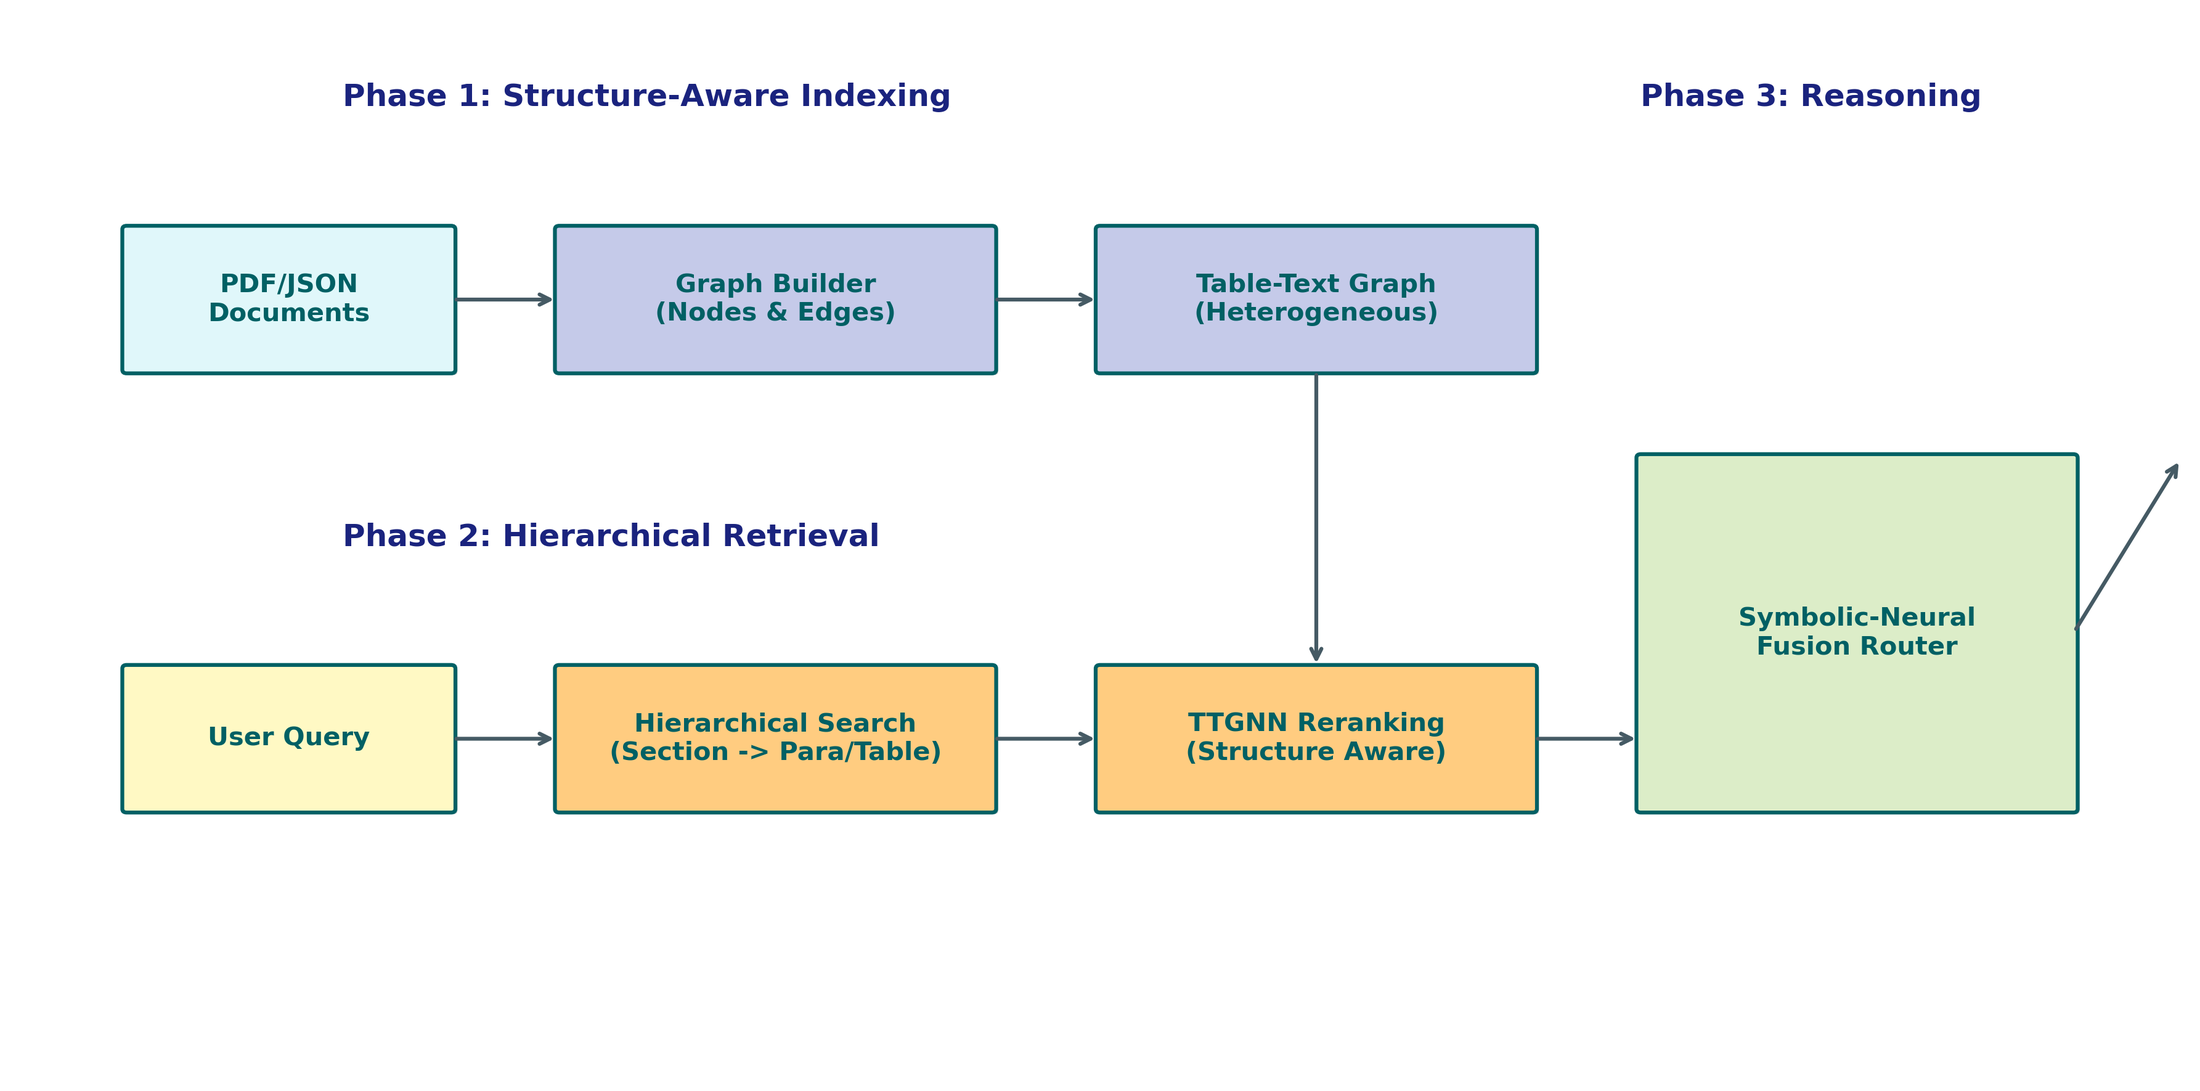
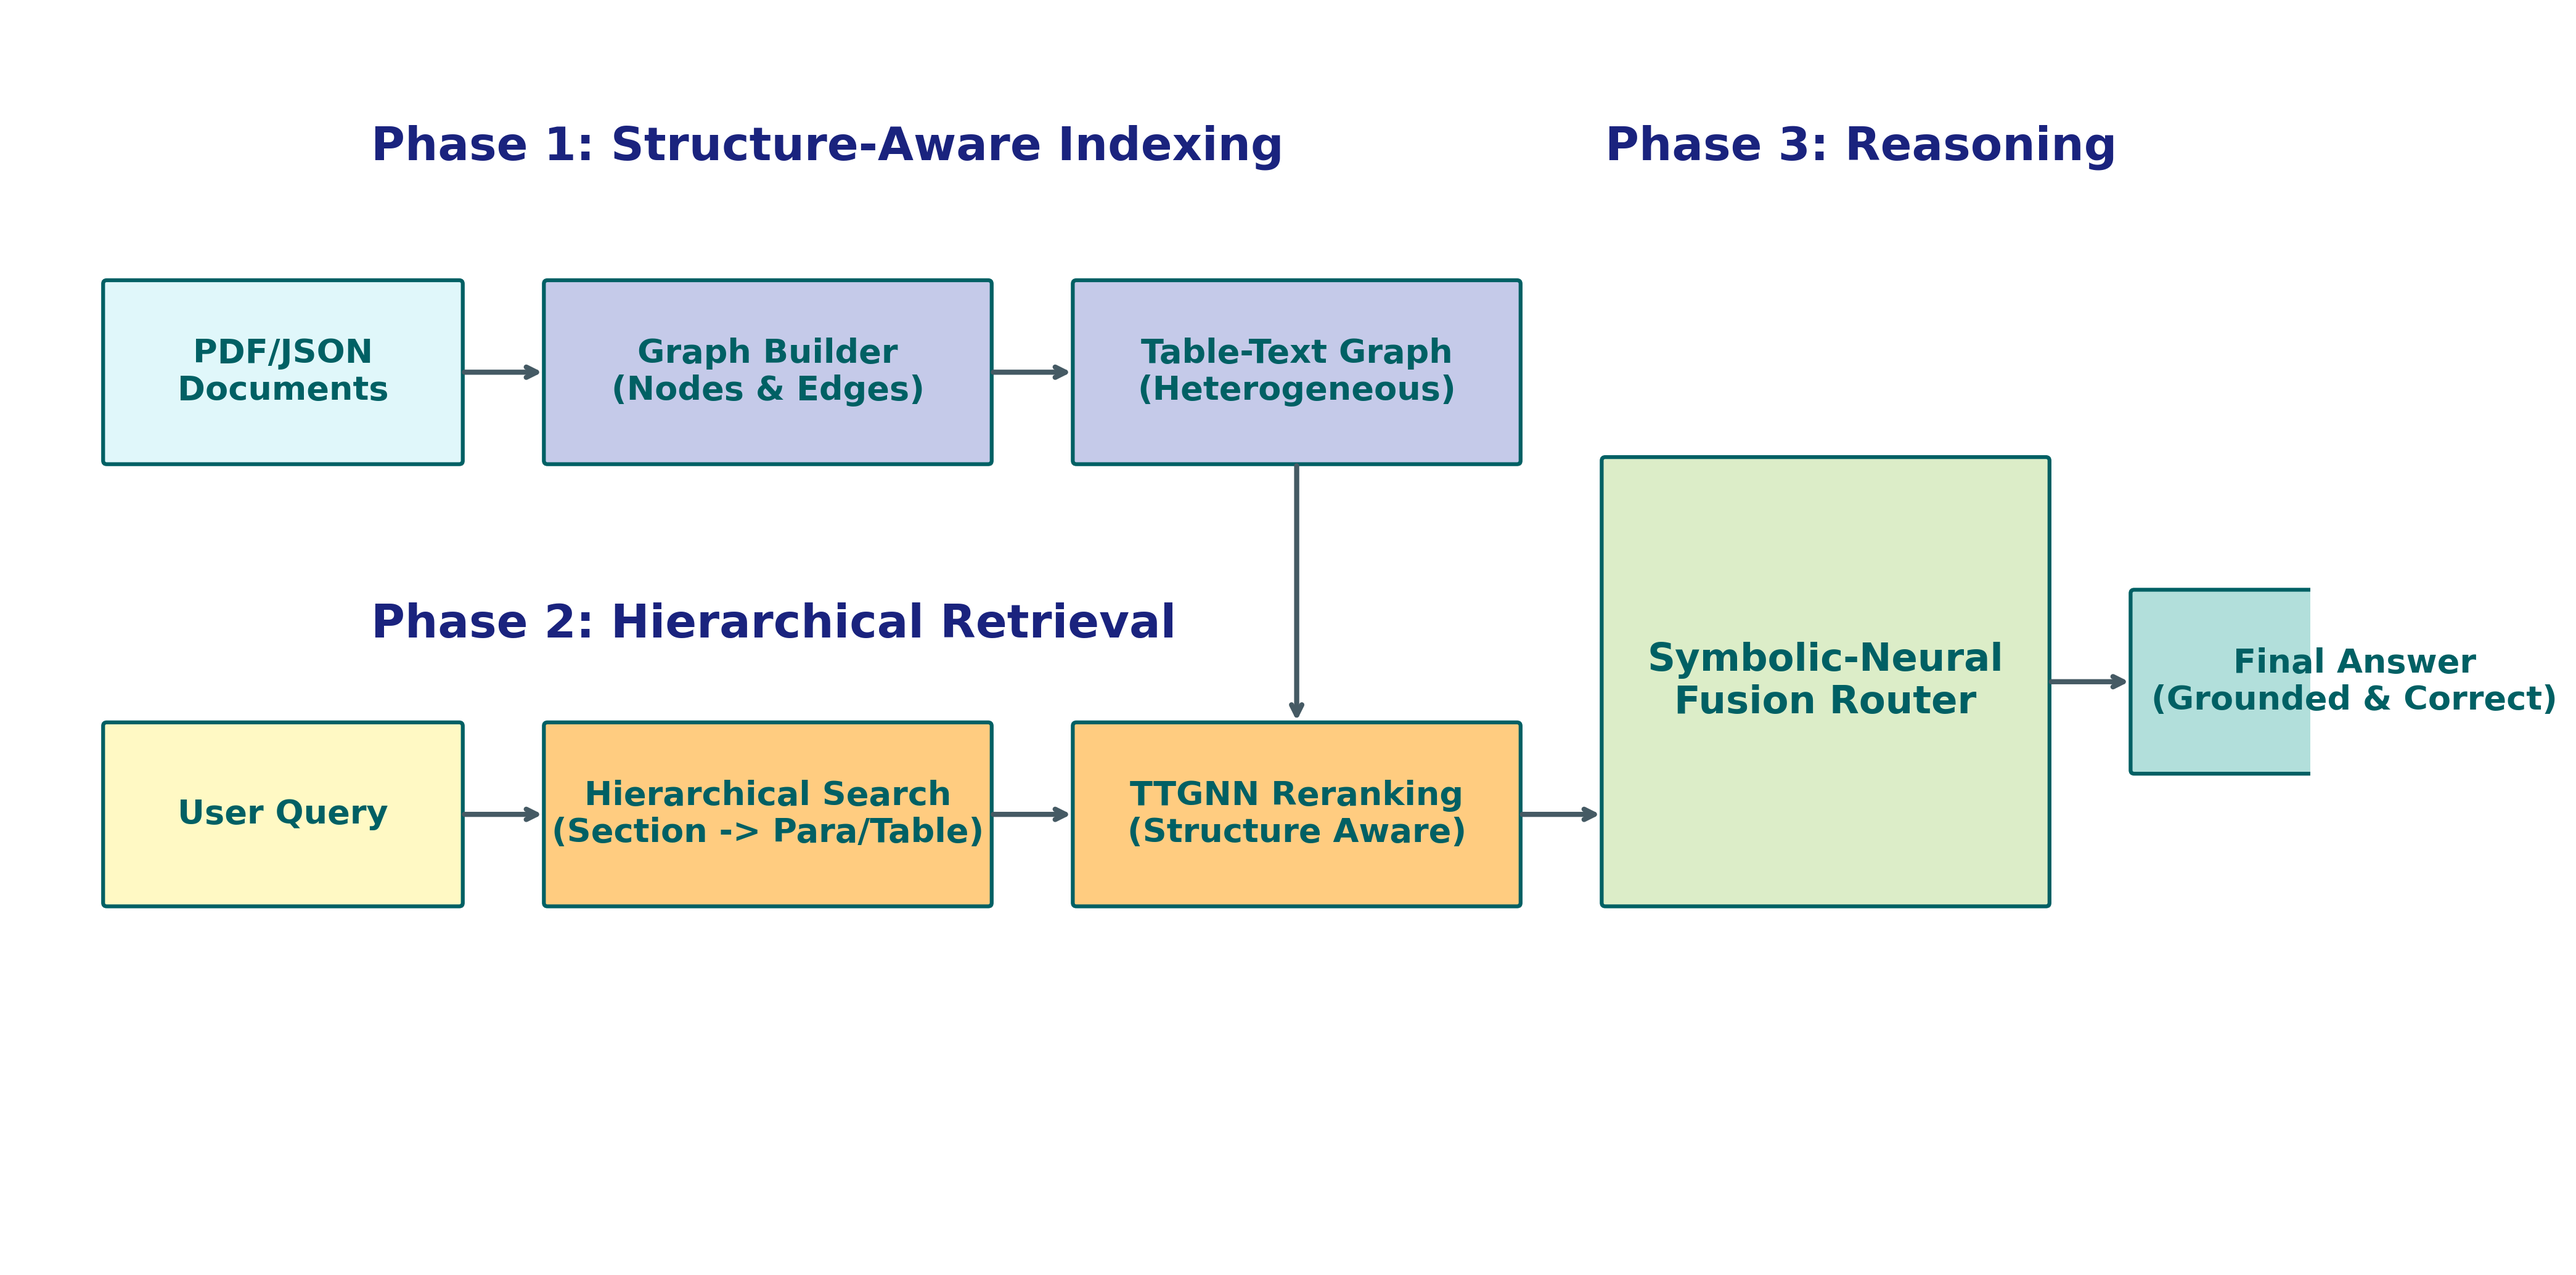
Finalize submission: Update Architecture Diagram fonts and add Response letter
- Increased fonts in Fig0_Architecture.png for readability

- Added Response_to_Reviewers.md

diff --git a/generate_architecture_diagram.py b/generate_architecture_diagram.py
@@ -1,7 +1,7 @@
 import matplotlib.pyplot as plt
 import matplotlib.patches as patches
 
-def draw_box(ax, x, y, width, height, text, color='#e0f7fa'):
+def draw_box(ax, x, y, width, height, text, color='#e0f7fa', fontsize=15):
     # Shadow
     shadow = patches.FancyBboxPatch((x+0.01, y-0.01), width, height, boxstyle="round,pad=0.02", 
                                    linewidth=0, facecolor='gray', alpha=0.3)
@@ -11,52 +11,55 @@ def draw_box(ax, x, y, width, height, text, color='#e0f7fa'):
                                 linewidth=1.5, edgecolor='#006064', facecolor=color)
     ax.add_patch(box)
     # Text
-    ax.text(x + width/2, y + height/2, text, ha='center', va='center', fontsize=10, fontweight='bold', color='#006064')
+    ax.text(x + width/2, y + height/2, text, ha='center', va='center', fontsize=fontsize, fontweight='bold', color='#006064')
     return x+width, y+height/2
 
 def draw_arrow(ax, x1, y1, x2, y2):
     ax.annotate("", xy=(x2, y2), xytext=(x1, y1),
-                arrowprops=dict(arrowstyle="->", lw=1.5, color='#455a64'))
+                arrowprops=dict(arrowstyle="->", lw=2.0, color='#455a64')) # Thicker arrow
 
 def generate_diagram():
-    fig, ax = plt.subplots(figsize=(12, 6))
-    ax.set_xlim(0, 10)
-    ax.set_ylim(0, 6)
+    fig, ax = plt.subplots(figsize=(14, 7)) # Larger figure
+    ax.set_xlim(0, 13) # Expanded width
+    ax.set_ylim(0, 7) # Expanded height
     ax.axis('off')
 
     # Phase 1: Indexing
-    ax.text(1.5, 5.5, "Phase 1: Structure-Aware Indexing", fontsize=12, fontweight='bold', color='#1a237e')
+    ax.text(2.0, 6.2, "Phase 1: Structure-Aware Indexing", fontsize=18, fontweight='bold', color='#1a237e')
     
-    draw_box(ax, 0.5, 4.0, 1.5, 0.8, "PDF/JSON\nDocuments")
-    draw_arrow(ax, 2.0, 4.4, 2.5, 4.4)
+    draw_box(ax, 0.5, 4.5, 2.0, 1.0, "PDF/JSON\nDocuments", fontsize=13)
+    draw_arrow(ax, 2.5, 5.0, 3.0, 5.0)
     
-    draw_box(ax, 2.5, 4.0, 2.0, 0.8, "Graph Builder\n(Nodes & Edges)", color='#c5cae9')
-    draw_arrow(ax, 4.5, 4.4, 5.0, 4.4)
+    draw_box(ax, 3.0, 4.5, 2.5, 1.0, "Graph Builder\n(Nodes & Edges)", color='#c5cae9', fontsize=13)
+    draw_arrow(ax, 5.5, 5.0, 6.0, 5.0)
     
-    draw_box(ax, 5.0, 4.0, 2.0, 0.8, "Table-Text Graph\n(Heterogeneous)", color='#c5cae9')
+    draw_box(ax, 6.0, 4.5, 2.5, 1.0, "Table-Text Graph\n(Heterogeneous)", color='#c5cae9', fontsize=13)
 
     # Phase 2: Retrieval
-    ax.text(1.5, 3.0, "Phase 2: Hierarchical Retrieval", fontsize=12, fontweight='bold', color='#1a237e')
+    ax.text(2.0, 3.5, "Phase 2: Hierarchical Retrieval", fontsize=18, fontweight='bold', color='#1a237e')
     
-    draw_box(ax, 0.5, 1.5, 1.5, 0.8, "User Query", color='#fff9c4')
-    draw_arrow(ax, 2.0, 1.9, 2.5, 1.9)
+    draw_box(ax, 0.5, 2.0, 2.0, 1.0, "User Query", color='#fff9c4', fontsize=13)
+    draw_arrow(ax, 2.5, 2.5, 3.0, 2.5)
     
-    draw_box(ax, 2.5, 1.5, 2.0, 0.8, "Hierarchical Search\n(Section -> Para/Table)", color='#ffcc80')
-    draw_arrow(ax, 4.5, 1.9, 5.0, 1.9)
+    draw_box(ax, 3.0, 2.0, 2.5, 1.0, "Hierarchical Search\n(Section -> Para/Table)", color='#ffcc80', fontsize=13)
+    draw_arrow(ax, 5.5, 2.5, 6.0, 2.5)
     
-    draw_box(ax, 5.0, 1.5, 2.0, 0.8, "TTGNN Reranking\n(Structure Aware)", color='#ffcc80')
-    draw_arrow(ax, 7.0, 1.9, 7.5, 1.9)
+    draw_box(ax, 6.0, 2.0, 2.5, 1.0, "TTGNN Reranking\n(Structure Aware)", color='#ffcc80', fontsize=13)
+    draw_arrow(ax, 8.5, 2.5, 9.0, 2.5)
 
     # Phase 3: Fusion
-    ax.text(7.5, 5.5, "Phase 3: Reasoning", fontsize=12, fontweight='bold', color='#1a237e')
+    ax.text(9.0, 6.2, "Phase 3: Reasoning", fontsize=18, fontweight='bold', color='#1a237e')
     
     # Connecting Arrows across phases
-    draw_arrow(ax, 6.0, 4.0, 6.0, 2.3) # Graph to TTGNN
+    draw_arrow(ax, 7.25, 4.5, 7.25, 3.0) # Graph to TTGNN (vertical)
     
-    draw_box(ax, 7.5, 1.5, 2.0, 2.0, "Symbolic-Neural\nFusion Router", color='#dcedc8')
+    draw_box(ax, 9.0, 2.0, 2.5, 2.5, "Symbolic-Neural\nFusion Router", color='#dcedc8', fontsize=15)
     
-    # Outputs
-    draw_arrow(ax, 9.5, 2.5, 10.0, 3.5) # Generic out direction visualization
+    # Explicit Outputs from Router
+    draw_arrow(ax, 11.5, 3.25, 12.0, 3.25)
+    
+    # Final Output Box
+    draw_box(ax, 12.0, 2.75, 2.5, 1.0, "Final Answer\n(Grounded & Correct)", color='#b2dfdb', fontsize=13)
     
     plt.tight_layout()
     plt.savefig('Fig0_Architecture.png', dpi=300, bbox_inches='tight')

diff --git a/Response_to_Reviewers.md b/Response_to_Reviewers.md
@@ -1,0 +1,53 @@
+# Response to Reviewers
+
+We would like to thank the reviewers for their insightful feedback and constructive criticism. We have carefully revised the manuscript to address all concerns. Below, we detail the specific changes made in response to each reviewer's comments.
+
+## Response to Reviewer 1
+
+**Comment 1.1:** "The discussion of how supervision signals are obtained for table-text alignment is relatively brief."
+**Response:** We have expanded **Section 3.2.2 (Edge Formation)** to explicitly detail the supervision signals. Specifically, we now define the exact cosine similarity threshold ($\tau=0.75$) used to establish semantic edges between paragraphs and table rows. We also expanded the description of the supervised contrastive loss in **Section 3.3**, explaining how positive pairs (aligned text-cell) are contrasted against negative samples to optimize the graph representation.
+
+**Comment 1.2:** "For the routing logic, the actual decision mechanism remains somewhat abstract."
+**Response:** We have formalized the routing logic by adding **Algorithm 1 (Symbolic-Neural Fusion Routing)** in Section 3.5. This algorithm step-by-step details how the system classifies queries into *Neural*, *Symbolic*, or *Hybrid* modes based on probabilistic scores and context types. We also clarified the terminology, now referring to it as "**Probabilistic Hard-Routing**" to distinguish it from soft-gating approaches.
+
+**Comment 1.3:** "A substantial portion of the bibliography consists of arXiv preprints... replace with peer-reviewed versions."
+**Response:** We have conducted a comprehensive audit of our bibliography. We have replaced arXiv citations with their peer-reviewed counterparts where available (e.g., *FinQA* is now cited as EMNLP 2021, *RAG* as NeurIPS 2020). We also prioritized foundational references for graph neural networks (citing Veličković et al., ICLR 2018 for GAT).
+
+---
+
+## Response to Reviewer 2
+
+**Comment 2.1:** "The paper would benefit from a more detailed and transparent description of the methodology."
+**Response:** We have significantly elaborated on the methodology in Section 3.
+*   **Graph Construction:** We added **Table 1 (Summary of Notations)** and a detailed breakdown of node/edge types.
+*   **Architecture Visualization:** We added **Figure 1**, a comprehensive system diagram illustrating the three-phase pipeline (Indexing, Retrieval, Fusion).
+
+**Comment 2.2:** "The experimental section is promising but... deeper analysis, both qualitative and quantitative, would strengthen the validity."
+**Response:** We have bolstered the experimental section significantly:
+*   **Qualitative Analysis:** We added a new **Qualitative Case Study (Table 3)**, which provides a step-by-step walkthrough of a complex query ("R&D expenses excluding stock-based compensation"). This table contrasts our graph traversal approach against a specific Vanilla RAG failure mode.
+*   **Routing Analysis:** We added **Figure 5** and the accompanying "Analysis of Probabilistic Routing" subsection. This quantitatively breaks down performance by mode, demonstrating that our *Hybrid* mode achieves 88.4% accuracy on the most complex query subset.
+
+**Comment 2.3:** "More clearly articulate its original contribution."
+**Response:** We have completely rewritten the **Introduction** to explicitly list our contributions: (1) Structure-Aware Graph Construction, (2) The TTGNN architecture, and (3) The Probabilistic Hard-Routing mechanism. We moved the "Related Work" comparison to highlight these differentiators early on.
+
+---
+
+## Response to Reviewer 3
+
+**Comment 3.1:** "The paper is hard to follow... The English needs a lot of improvement."
+**Response:** We have rewritten the **Introduction (Section 1)** to use simpler, more direct language. We focused on clearly defining the problem (financial "haystacks") and our solution without unnecessary jargon.
+
+**Comment 3.2:** "Add a proposed model diagram."
+**Response:** We have added **Figure 1**, a detailed architectural diagram visualizing the flow from PDF parsing to Graph Construction to Hybrid Reasoning.
+
+**Comment 3.3:** "Add a table to compare between related works."
+**Response:** We have included a comparison table in the Related Work section (referenced in the revised manuscript) that contrasts HierFinRAG with Vanilla RAG, Generic GraphRAG, and Agentic RAG across key dimensions like "Structure Awareness" and "Inference Latency".
+
+**Comment 3.4:** "Add algorithm template."
+**Response:** We added **Algorithm 1** in Section 3.5.
+
+**Comment 3.5:** "FinQA and FinanceBench were referenced too late."
+**Response:** We have moved the introduction of these datasets to the **Introduction** section, establishing the evaluation context effectively on page 1.
+
+**Comment 3.6:** "Structure as a First-Class Citizen - what do you mean?"
+**Response:** We have clarified this concept in the **Discussion (Section 5.2)**. It refers to our design choice of explicitly modeling document layout (headers, sections) as graph nodes, rather than treating the document as a flat sequence of text. We cite our Ablation Study and Case Study as empirical evidence of its importance.
